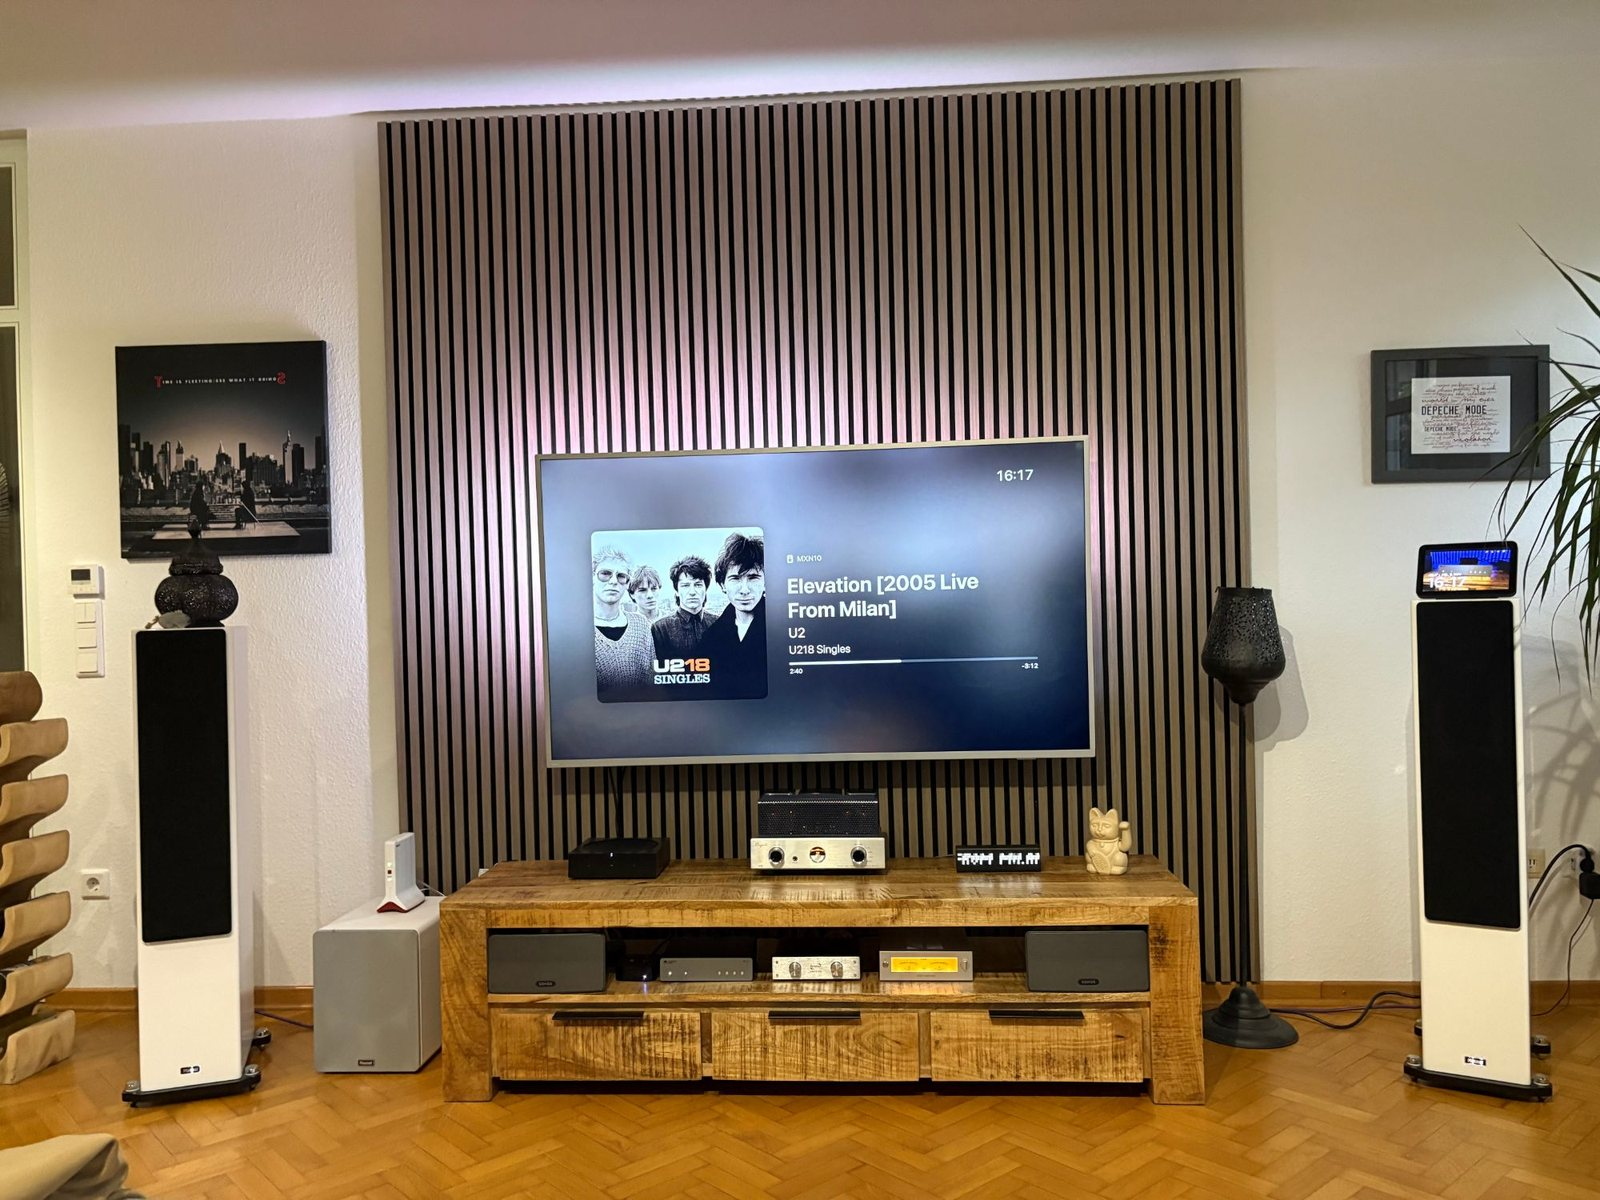
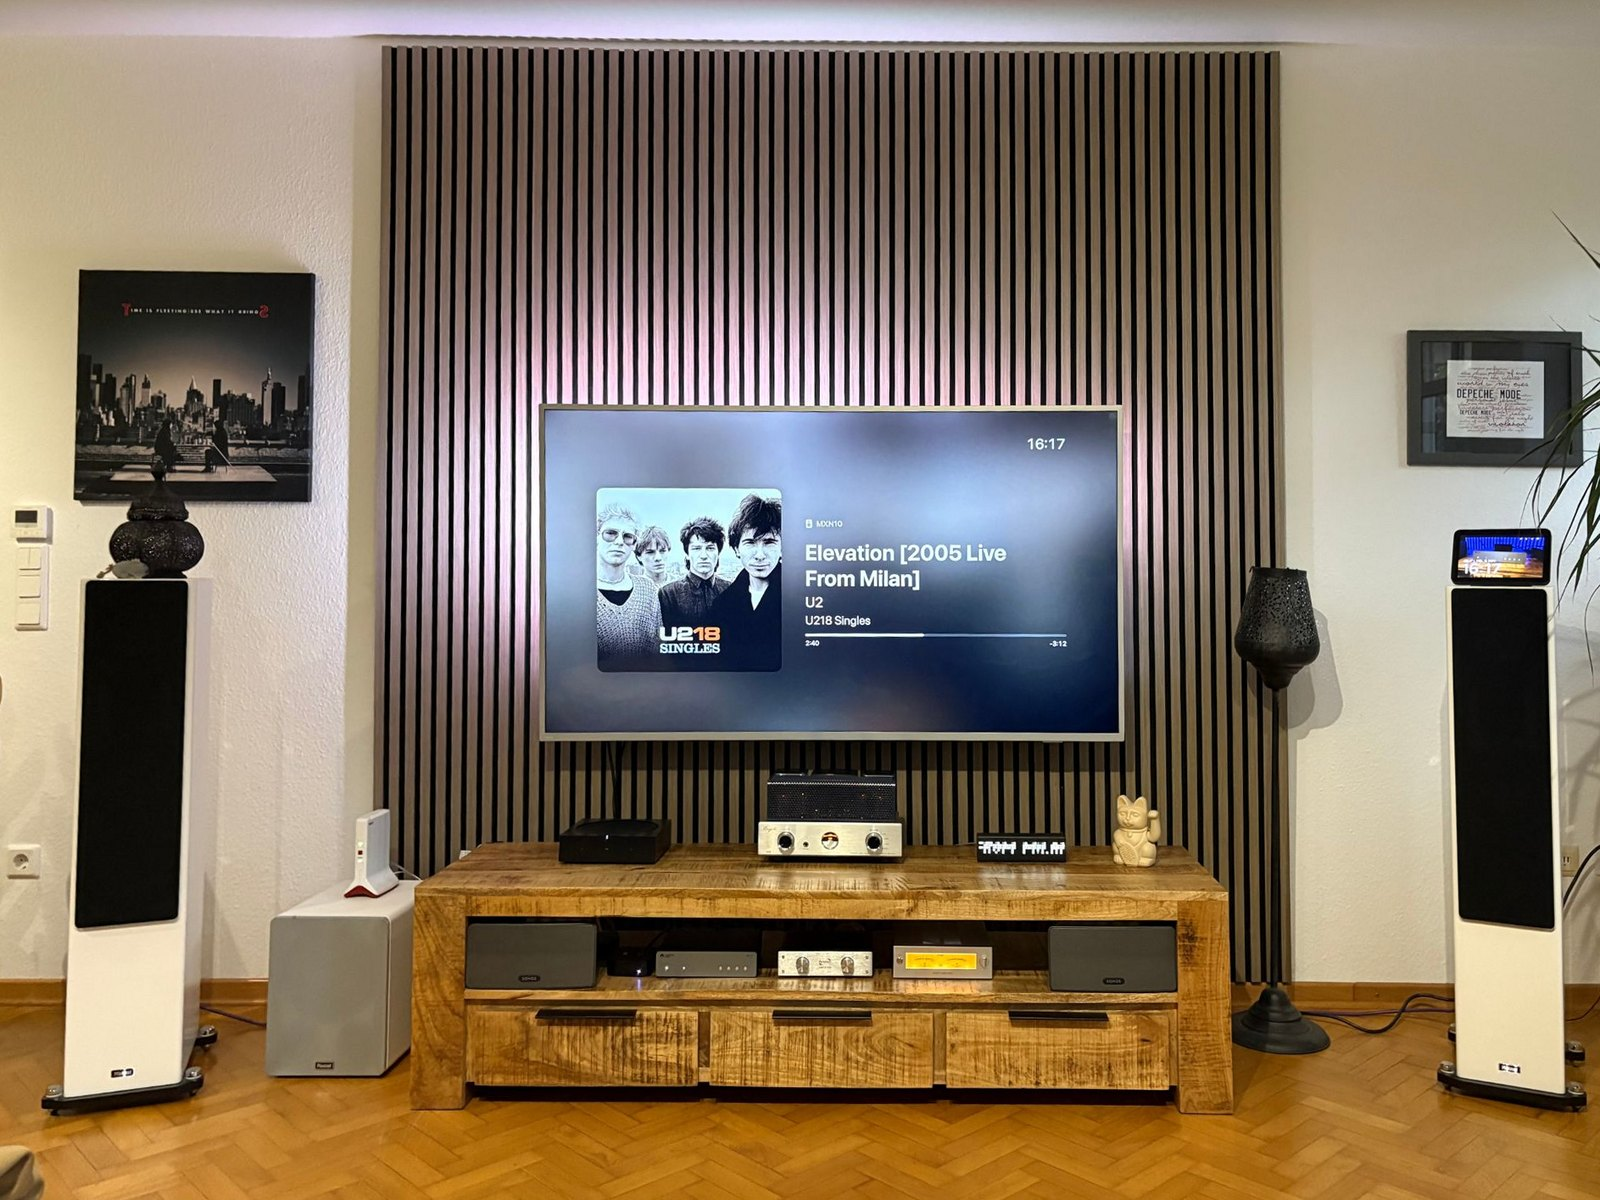
Living room photo straightened, shorter line
Claude-Session: https://claude.ai/code/session_01KZj8RWYVBgPEKiJWw7NShW

diff --git a/index.html b/index.html
@@ -172,11 +172,11 @@
       <div class="section-head ipad-head">
         <span class="label">At home</span>
         <h3>Right in the middle of the music.</h3>
-        <p>On the big screen above the hi-fi, and on an iPad on the speaker next to it.</p>
+        <p>On the TV above the hi-fi, and on an iPad on the speaker.</p>
       </div>
       <div class="gallery">
         <figure class="home-photo">
-          <img src="img/living-room.jpg?v=2026110901" width="1600" height="1200" loading="lazy" alt="A living room with a hi-fi system: Klangbild shows U2 on the TV above the rack, and an iPad with Klangbild stands on one of the speakers">
+          <img src="img/living-room.jpg?v=2026110902" width="1600" height="1200" loading="lazy" alt="A living room with a hi-fi system: Klangbild shows U2 on the TV above the rack, and an iPad with Klangbild stands on one of the speakers">
           <figcaption>Klangbild on the TV and on an iPad &ndash; in a beta tester's living room.</figcaption>
         </figure>
       </div>
